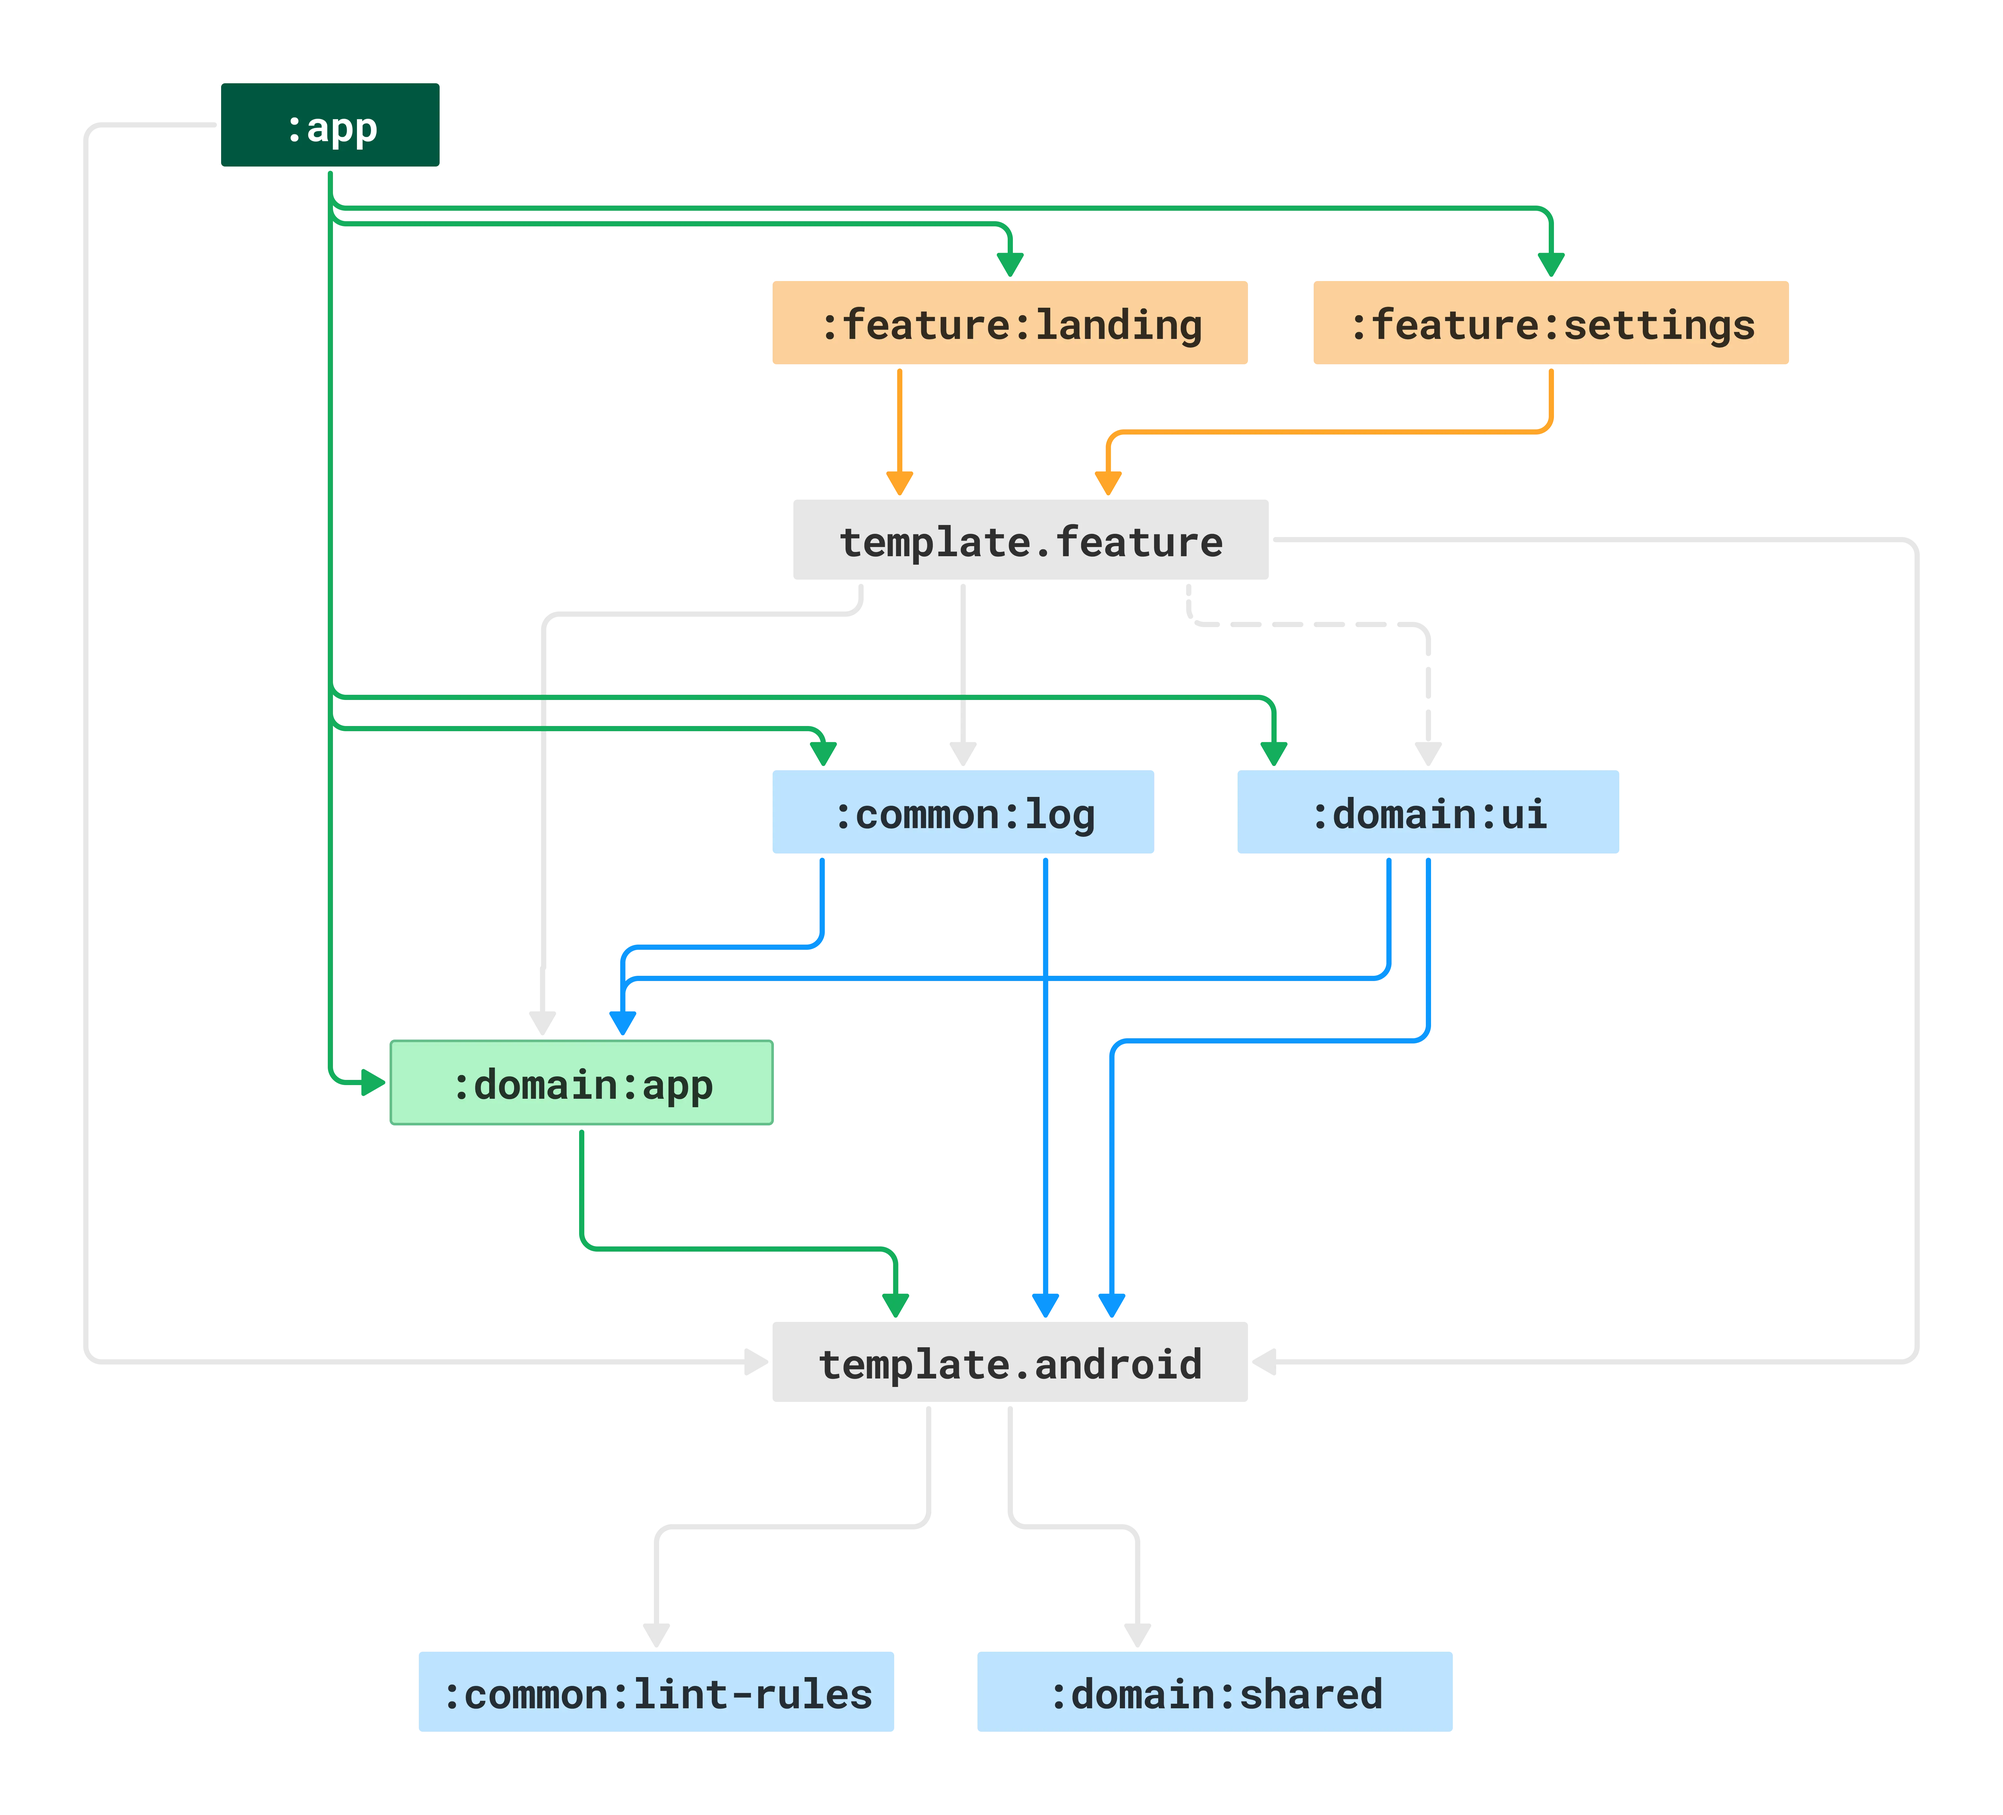
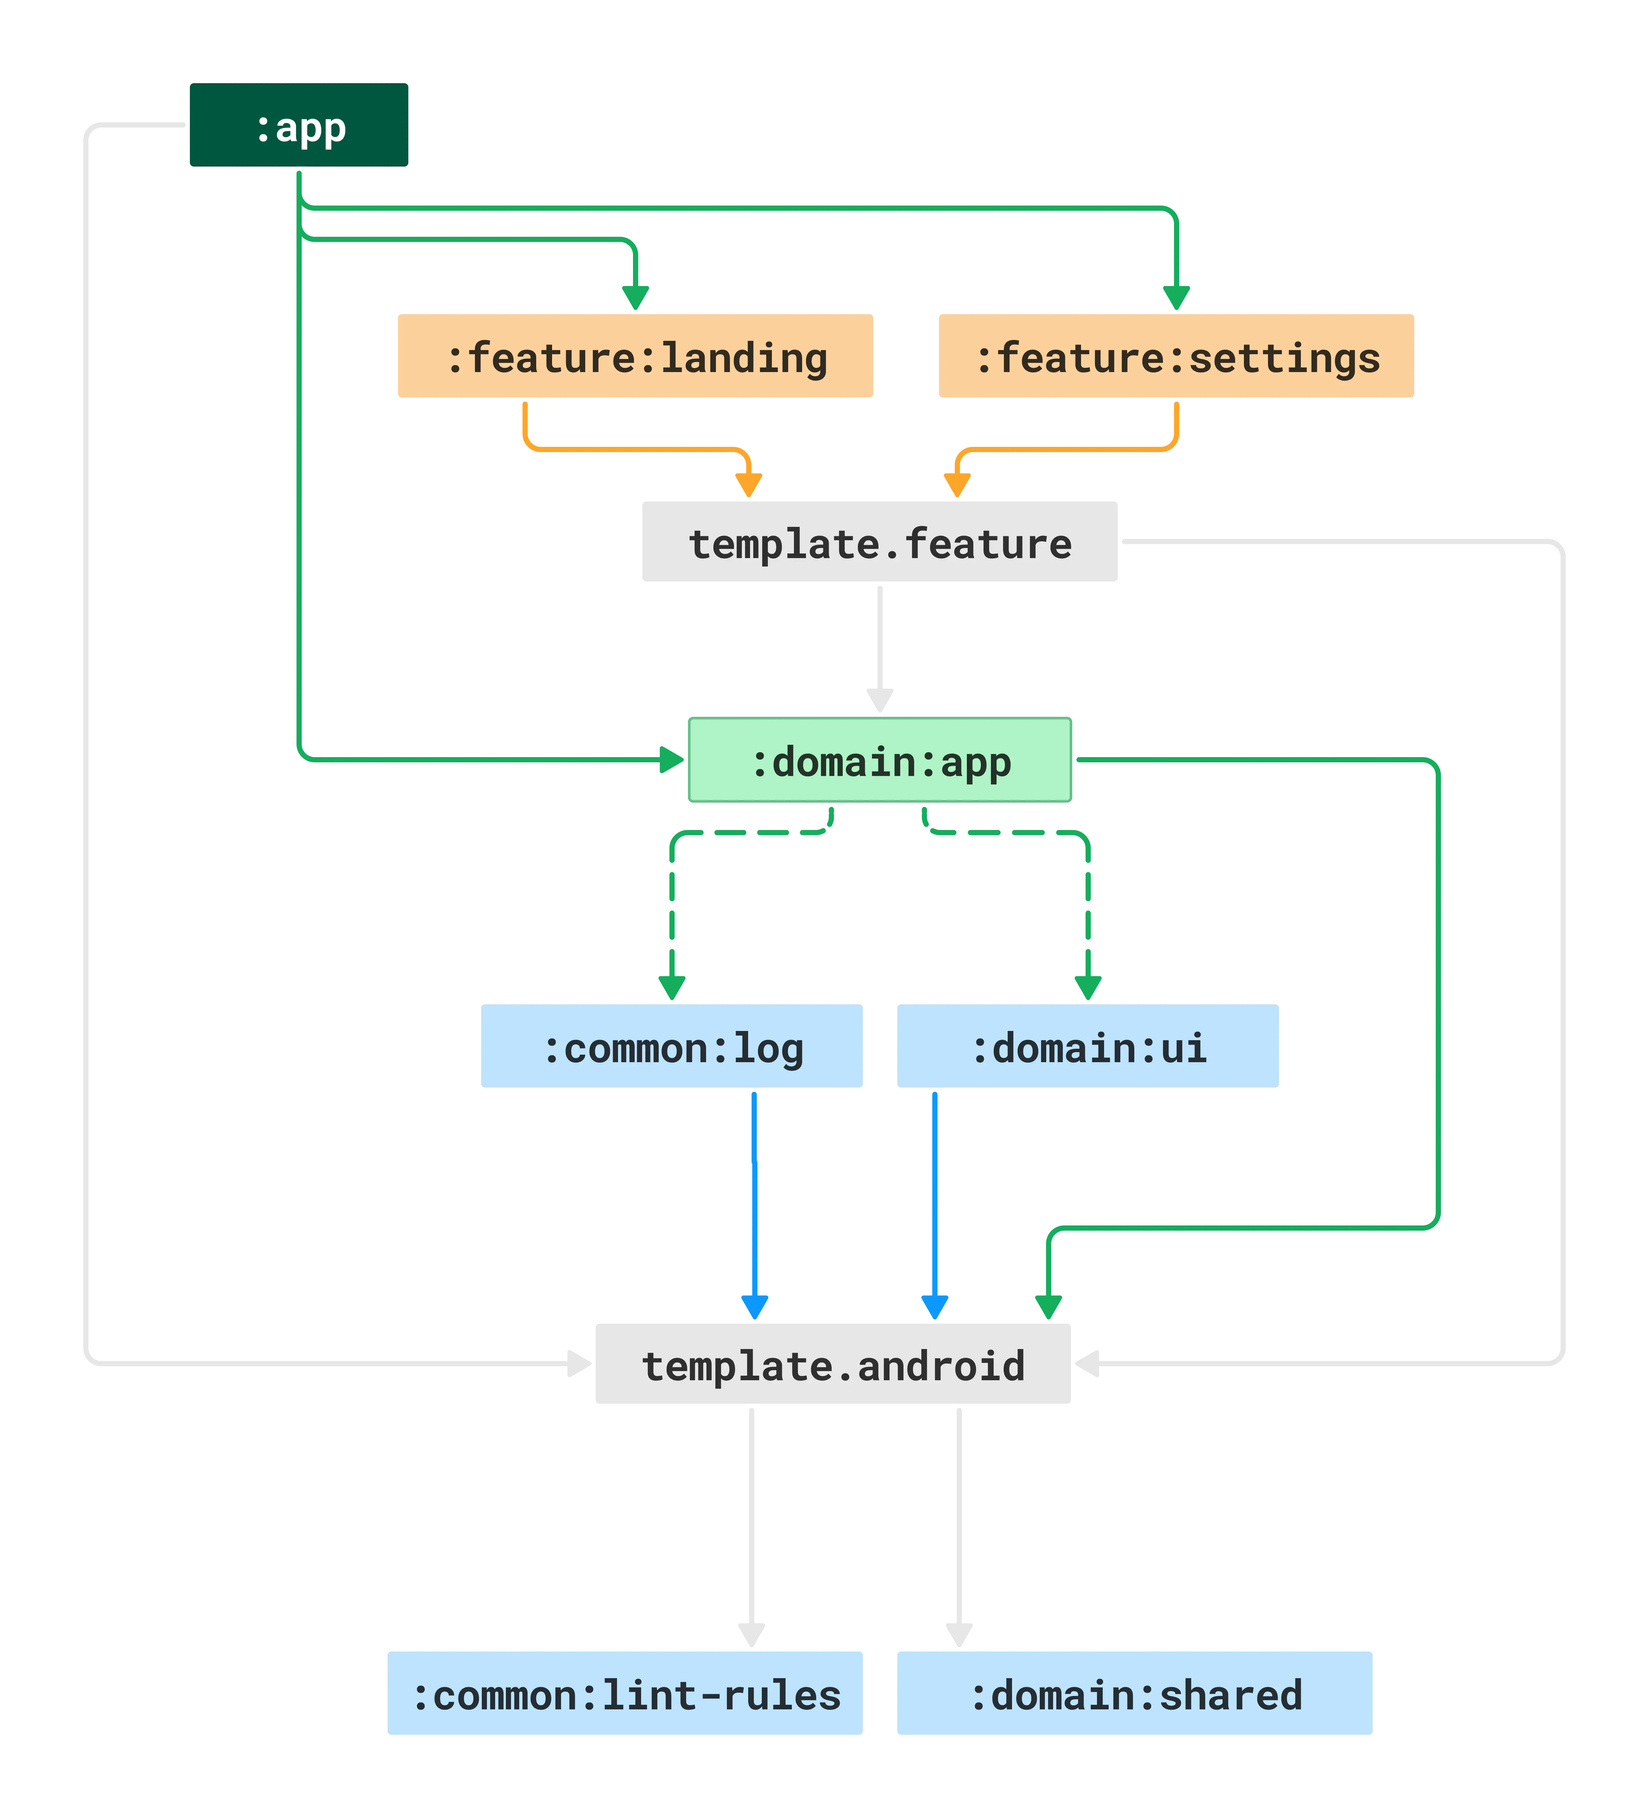
bolt | :domain:app api → :domain:ui

diff --git a/build-logic/convention/src/main/kotlin/TemplateFeatureConventionPlugin.kt b/build-logic/convention/src/main/kotlin/TemplateFeatureConventionPlugin.kt
@@ -40,9 +40,9 @@ class TemplateFeatureConventionPlugin : TemplateAndroidConventionPlugin() {
 
         dependencies {
           val implementation by configurations
+
           // internal dependencies
           implementation(project(":domain:app"))
-          implementation(project(":domain:ui")) // brings in compose
         }
       }
     }
